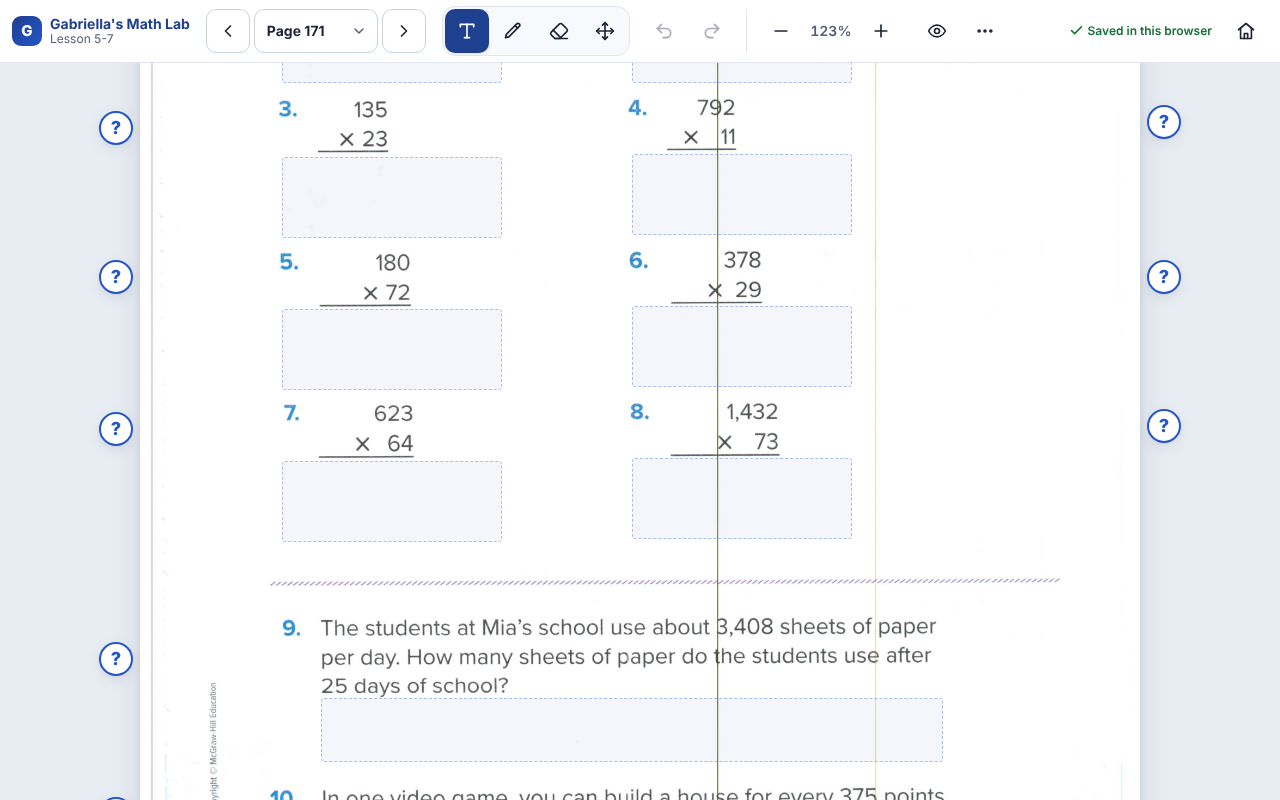
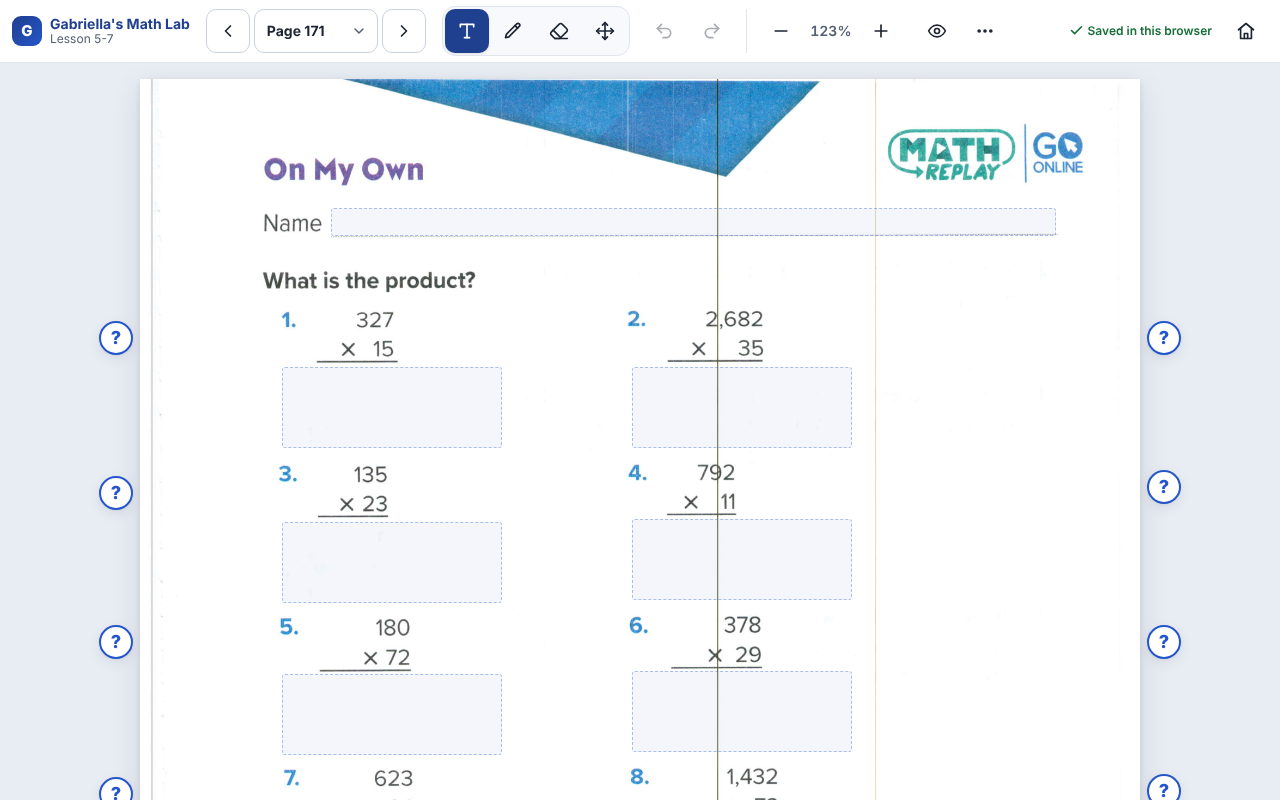
GML-007: Apply final checker fixes, add report and home-page link
- Page 162 #11: Raya's partial products are for 218 × 17; answer 2,176
- Placement fixes on pages 159, 161 and 165 from the independent check
- docs/gml-007/REPORT.md: what was built, how it was checked, and the
  judgement calls for the owner
- Home page preview link now opens the whole Chapter 5 book

npm test 278/278, chapter5 browser 328/328, lesson51 browser 77/77.

Claude-Session: https://claude.ai/code/session_018dbFcDMd4vdEjZrPDaWnnM

diff --git a/index.html b/index.html
@@ -13,7 +13,7 @@
   <link rel="stylesheet" href="css/styles.css">
 </head>
 <body>
-  <aside style="padding:12px;text-align:center;background:#e7f3ee"><a href="lesson-5-1/">Preview Lesson 5-1 · original textbook with saved writing</a></aside>
+  <aside style="padding:12px;text-align:center;background:#e7f3ee"><a href="chapter-5/">Preview Chapter 5 · the whole original textbook with saved writing and help</a></aside>
   <a class="skip" href="#app">Skip to content</a>
   <header class="site-header">
     <a class="brand" href="#/" aria-label="NumberNova home">

diff --git a/docs/gml-007/REPORT.md b/docs/gml-007/REPORT.md
@@ -1,0 +1,61 @@
+# GML-007: The whole Chapter 5 book in the approved design
+
+The owner approved the GML-006 Lesson 5-1 design (one slim bar, a "?" beside each problem, the solution in a right-hand pane) and asked for the entire book to be done the same way, using multiple agents.
+
+Open it at `chapter-5/` (for example `chapter-5/#page=149`). `lesson-5-1/` is unchanged and still works.
+
+## What is in the book
+| Section | Title | Printed pages | Questions |
+|---|---|---|---|
+| Unit 5 Opener | Multiply Multi-Digit Whole Numbers | 141–142 | 7 |
+| Lesson 5-1 | Understand Powers and Exponents | 143–146 | 25 |
+| Lesson 5-2 | Patterns When Multiplying a Whole Number by Powers of 10 | 147–150 | 30 |
+| Lesson 5-3 | Estimate Products of Multi-Digit Factors | 151–154 | 19 |
+| Lesson 5-4 | Use Area Models to Multiply Multi-Digit Factors | 155–158 | 19 |
+| Lesson 5-5 | Use Partial Products to Multiply Multi-Digit Factors | 159–162 | 19 |
+| Lesson 5-6 | Relate Partial Products to an Algorithm | 163–166 | 20 |
+| Unit 5 Check | Multiplication of 2-Digit Numbers | 167–168 | 4 |
+| Lesson 5-7 | Multiply Multi-Digit Factors Fluently | 169–172 | 21 |
+| Unit Review | Unit Review | 173–176 | 22 |
+| Fluency Practice | Fluency Practice | 177–178 | 15 |
+
+38 pages and 201 questions. Page 141 (the unit cover) has nothing to answer.
+
+## How it was built
+1. **Pages.** `tools/render-chapter5.py` renders every PDF page exactly as Lesson 5-1 was rendered (PyMuPDF 3x, full page, rotation honoured), then compresses each PNG losslessly. `tools/audit-chapter5-source.py` confirms every page is pixel-identical to the PDF render; pages 143-146 match the Lesson 5-1 files.
+2. **Viewer.** `chapter-5/` is the approved Lesson 5-1 viewer, made data-driven: the page picker is grouped by section, the bar shows the current section, and Print prints the open lesson.
+3. **Content (7 agents in parallel).** Each agent wrote one part in `chapter-5/data/parts/`: answer boxes, "?" positions, a hint, kid-friendly steps and an answer for every problem. Each computed every answer in Python and checked it a second way, compared placement on overlay previews (`tools/preview-chapter5-page.py`) and passed `tools/validate-chapter5-part.py`. Lesson 5-1's audited data is reused unchanged. `tools/build-chapter5.py` merges everything into `chapter-5/data/`.
+4. **Independent check (3 agents).** Fresh agents solved every problem from the page images before reading the authored answers.
+   - **Real error fixed:** page 177 problem 3 had been misread as 4,279 + 2,398. The page says 4,279 + 2,368 = 6,647.
+   - **Explanation tightened:** page 162 problem 11. Raya's partial products are for 218 × 17.
+   - **Placement fixes:** pages 148, 154, 159, 161, 165 and 176.
+   - **Everything else:** confirmed.
+
+The old 5-1 to 5-4 workbook's draft answers had three misreadings, now correct: 304 × 68 = 20,672; 14 × 128 = 1,792; 452 × 273 = 123,396.
+
+## Saved work
+One store, `gml:chapter-5:v1`. On the first visit it copies:
+- Lesson 5-1 work (`gml:lesson-5-1:v2`), including the last page;
+- the original workbook's handwriting for every page;
+- workbook typed answers wherever the same answer box exists. Field ids were kept for pages 147-158.
+
+The older keys are read, never changed. Backup and restore use the same format.
+
+## Judgement calls for the owner
+- **Page 142 (Mile-High Pennies):** the picture's stacks are not perfectly consistent. The answer uses 17 pennies per inch.
+- **Page 161 problem 7:** the bike price ($249) is only on the price tag in the photo.
+- **Page 172 problem 12:** a "7-day stay" is read as 7 nights ($1,351).
+- **Page 175 problem 17:** "5 weeks" is read as 35 running days (4,410 miles).
+- **Page 176 Part B:** uses 52 weeks in a year.
+- **Page 167:** says "four students", but the probe shows three.
+- **Answer boxes without a printed blank:** some prompts (Mindset, some Learn examples) have no printed blank, so their boxes sit in nearby white space.
+
+## Verification
+| Suite | Result |
+|---|---|
+| `npm test` (includes new `chapter5.test.mjs`) | 278 / 278 |
+| `test:chapter5:browser` (every page, every "?", phone-width overlap, saving, migration, print, touch targets) | 328 / 328 |
+| `test:lesson51:browser` | 77 / 77 |
+| `python tools/audit-chapter5-source.py` | 38 / 38 pages pixel-identical |
+
+Screenshots: `desktop-147.png`, `desktop-171.png`, `mobile-149.png`.
